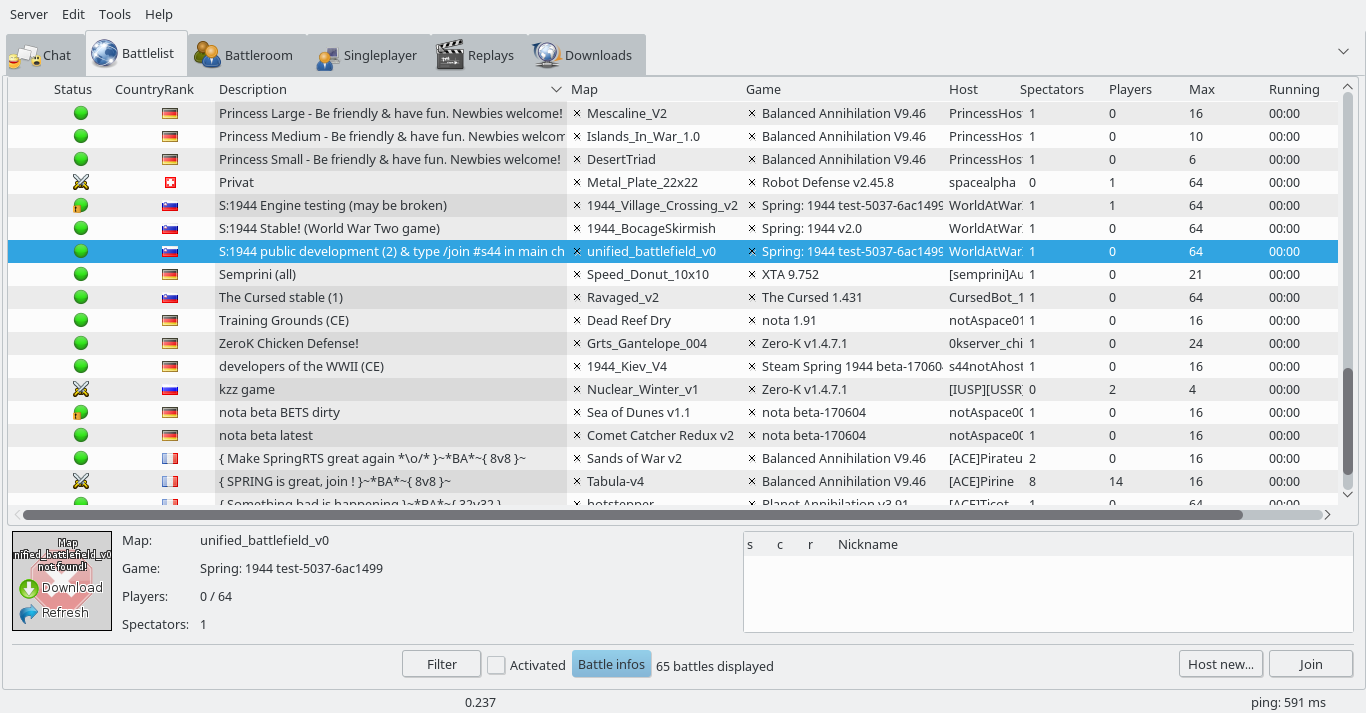
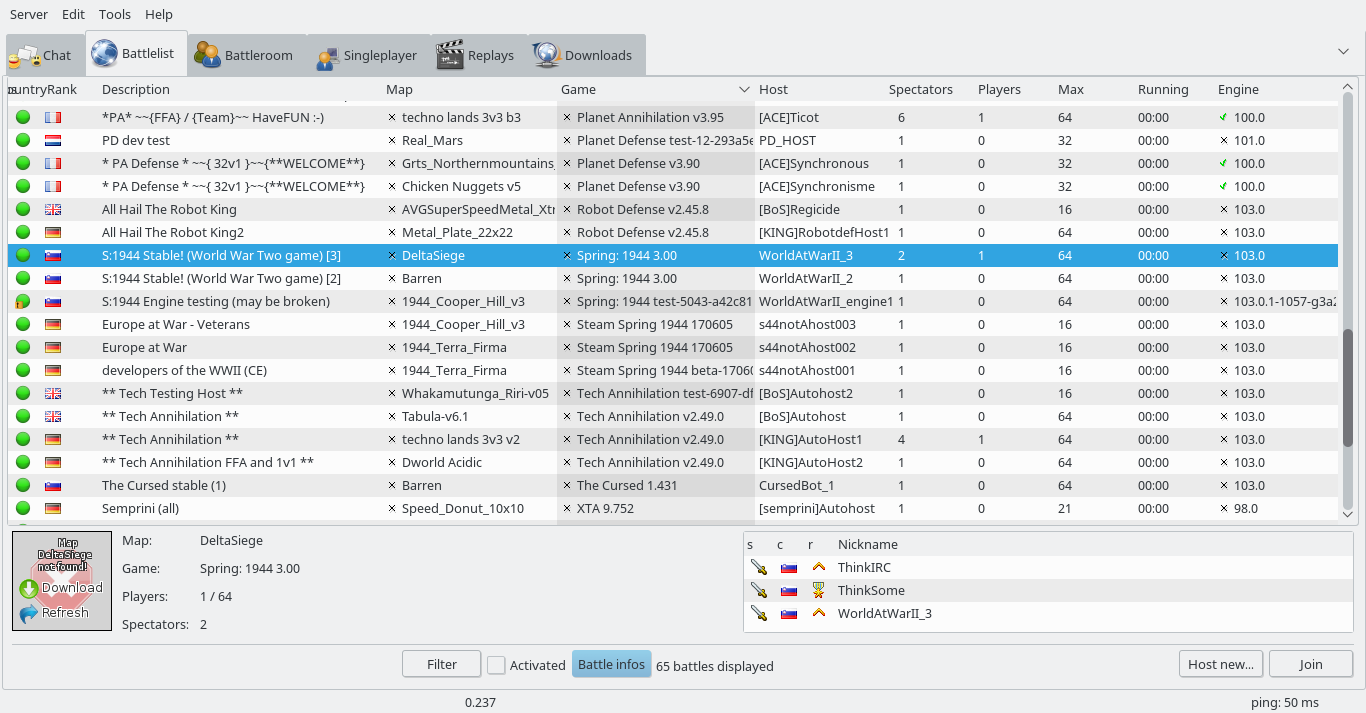
Corrected the documentation regarding the rooms available for new players

diff --git a/README.md b/README.md
@@ -35,10 +35,11 @@ No email confirmation is required.
 ## Head to one of the rooms
 
 Currently there are 2 official rooms to play **S:1944**
-* S:1944 Stable! (World War Two game)
-* S:1944 public development (2) & type /join #s44 in main chat
 
-Since **Spring:1944** is currently under heavy development, probably you wanna head to "**S:1944 public development (2) & type /join #s44 in main chat**", where the latest game version is deployed. Just move to **Battlelist** tab, and make double click on the appropiate room:
+* S:1944 Stable! (World War Two game) [2]
+* S:1944 Stable! (World War Two game) [3]
+
+Please, head to one of them just moving to **Battlelist** tab, and make double click on the appropiate room:
 
 ![](docs/imgs/s44_dev_room.png)
 
